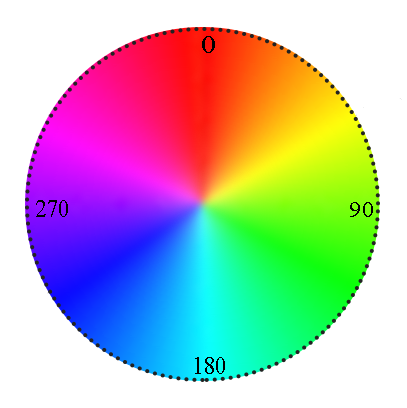
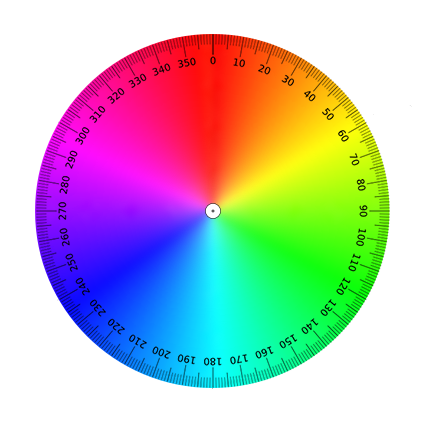
added correct camera settings + better HSV image

Changed region(s): [[0.059, 0.0588, 0.9435, 0.9412], [0.4717, 0.4706, 0.5307, 0.5294]]

diff --git a/Fotoanalyse/Fotoanalyse/__main__.py b/Fotoanalyse/Fotoanalyse/__main__.py
@@ -234,8 +234,8 @@ class LayoutSettingsScreen(GridLayout):
 
     def SetBeltSpeedSetting(self, instance, value):
 
-        wait.BeltSetting = int(value)
-        wait.CalculateWaitingTime()
+       wait.BeltSetting = int(value)
+       wait.CalculateWaitingTime()
 
     def SetMaxSaturation(self, instance, value):
         value = float(value)
@@ -728,7 +728,7 @@ class TakingPicturesScreenLayout(BoxLayout):
 
         self.orientation = 'vertical'
         
-        self.StartCalculationButton = Button(text = 'Calculate results', size_hint=(1, 0.9))
+        self.StartCalculationButton = Button(text = 'STOP SCANNING \nStart calculating results', size_hint=(1, 0.9))
         self.StartCalculationButton.bind(on_press = self.StartCalculation)
 
         self.GoToStartScreenButton = Button(text = 'CANCEL', size_hint=(1, 0.1))
@@ -737,13 +737,17 @@ class TakingPicturesScreenLayout(BoxLayout):
         self.add_widget(self.StartCalculationButton)
         self.add_widget(self.GoToStartScreenButton)
 
-        self.camera = cv2.VideoCapture(1)
+
+        self.camera = cv2.VideoCapture(0)
+
+        self.camera.set(3,1920)
+        self.camera.set(4,1080)
         self.PictureNumber = 0
 
     def StartTakingPictures(self):
 
         detection.RemoveAllImages()
-       
+        wait.CalculateWaitingTime()
         Clock.schedule_interval(self.TakePicture, wait.PictureInterval)
          
     def TakePicture(self, interval):
@@ -827,6 +831,11 @@ class LayoutResultScreen(BoxLayout):
         self.StartDetection()
         self.ShowPercentages()
 
+        self.ReturnToStartButton = Button(text = 'Return to home', size_hint = (1, 0.1))
+        self.ReturnToStartButton.bind(on_press = self.ToStartScreen)
+
+        self.add_widget(self.ReturnToStartButton)
+
     def StartDetection(self):
 
         detection.PrepareAllImagesForDetection()
@@ -839,7 +848,6 @@ class LayoutResultScreen(BoxLayout):
 
         if detection.EnableWriteDataToTXTfile == True:
             detection.WriteDataToTXTfile()
-
 
     def ShowPercentages(self):
 

diff --git a/Fotoanalyse/Fotoanalyse/wait.py b/Fotoanalyse/Fotoanalyse/wait.py
@@ -17,7 +17,7 @@ class wait:
 
         BeltspeedDict = {0: 0.054, 1: 0.065, 2: 0.078, 3: 0.091, 4: 0.104, 5: 0.120, 6: 0.135}
 
-        BeltspeedDict[BeltSetting] = wait.BeltSpeed
+        wait.BeltSpeed = BeltspeedDict[BeltSetting] 
 
 
     def PrintBeltSpeed():
